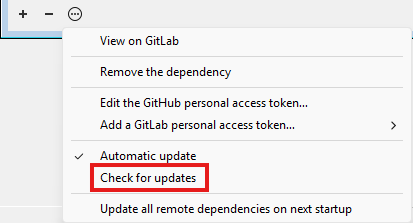
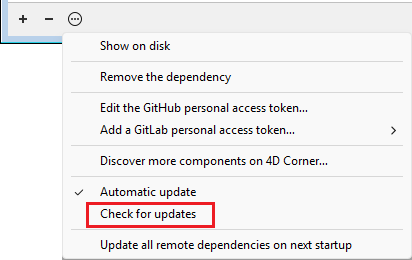
after closure

diff --git a/docs/Project/components.md b/docs/Project/components.md
@@ -608,9 +608,14 @@ Modifying the version range is useful for example if you use the automatic updat
 
 ### Using 4D Corner
 
-The [**4D Corner platform**](https://corner.4d.com/) proposes a comprehensive list of ready-to-use 4D components, proposed from the 4D company or from the 4D community. You can browse or search the list to find any component corresponding to your needs.
+The [**4D Corner platform**](https://corner.4d.com/) proposes a comprehensive list of ready-to-use 4D components, proposed from the 4D company or from the 4D community. You can browse or search the list to find any component meeting to your needs.
 
 ![4d-corner](../assets/en/Project/4d-corner.png)
+
+You can open the [4D Corner platform](https://corner.4d.com/) from the Dependency manager by selecting **Discover more components on 4D Corner...** from the menu at the bottom of the Dependency manager window:
+
+![4d-corner-access](../assets/en/Project/4d-corner.png)
+
 
 To install a component from the 4D Corner platform:
 
@@ -618,13 +623,20 @@ To install a component from the 4D Corner platform:
 
 ![copy button](../assets/en/Project/4d-corner-copy.png)
 
-2. Open the Dependency manager and click on the **+** button.
+2. Open the Dependency manager and click on the **[+]** button.
 
 The dependency link is automatically added in the address area:
 
 ![add dependency](../assets/en/Project/4d-corner-add.png)
 
 3. [Configure the dependency reference](#adding-a-github-or-gitlab-dependency) and click **Add**. 
+
+
+:::tip Related blog post
+
+[4D Corner: Easily browse 4D components, add them to your project and share your own](https://blog.4d.com/4d-corner-easily-browse-4d-components-add-them-to-your-project-and-share-your-own/)
+
+:::
 
 ### Updating dependencies
 

diff --git a/docs/Notes/updates.md b/docs/Notes/updates.md
@@ -12,7 +12,7 @@ Read [**What’s new in 4D 21 R5**](https://blog.4d.com/whats-new-in-4d-21-r5/),
 
 - Support of S/MIME email signing through new [`4D.SMTPTransporter`](../API/SMTPTransporterClass.md) class properties: [`.certificate`](../API/SMTPTransporterClass.md#certificate) or [`.certificateName`](../API/SMTPTransporterClass.md#certificatename) (certificate providing), and [`.certificatePassword`](../API/SMTPTransporterClass.md#certificatepassword).
 - Support of list forms in [**fluent UI** rendering](../FormEditor/forms.md#fluent-ui-rendering) on Windows. 
-- New [4D Corner platform](https://corner.4d.com/) that lists 4D components provided by 4D or proposed by the community.  
+- Direct access to the [4D Corner platform](https://corner.4d.com/) from the [Dependency manager](../Project/components.md#using-4d-corner).   
 - [**Fixed bug list**](https://bugs.4d.fr/fixedbugslist?version=21_R5): list of all bugs that have been fixed in 4D 21 R5.  
 
 
